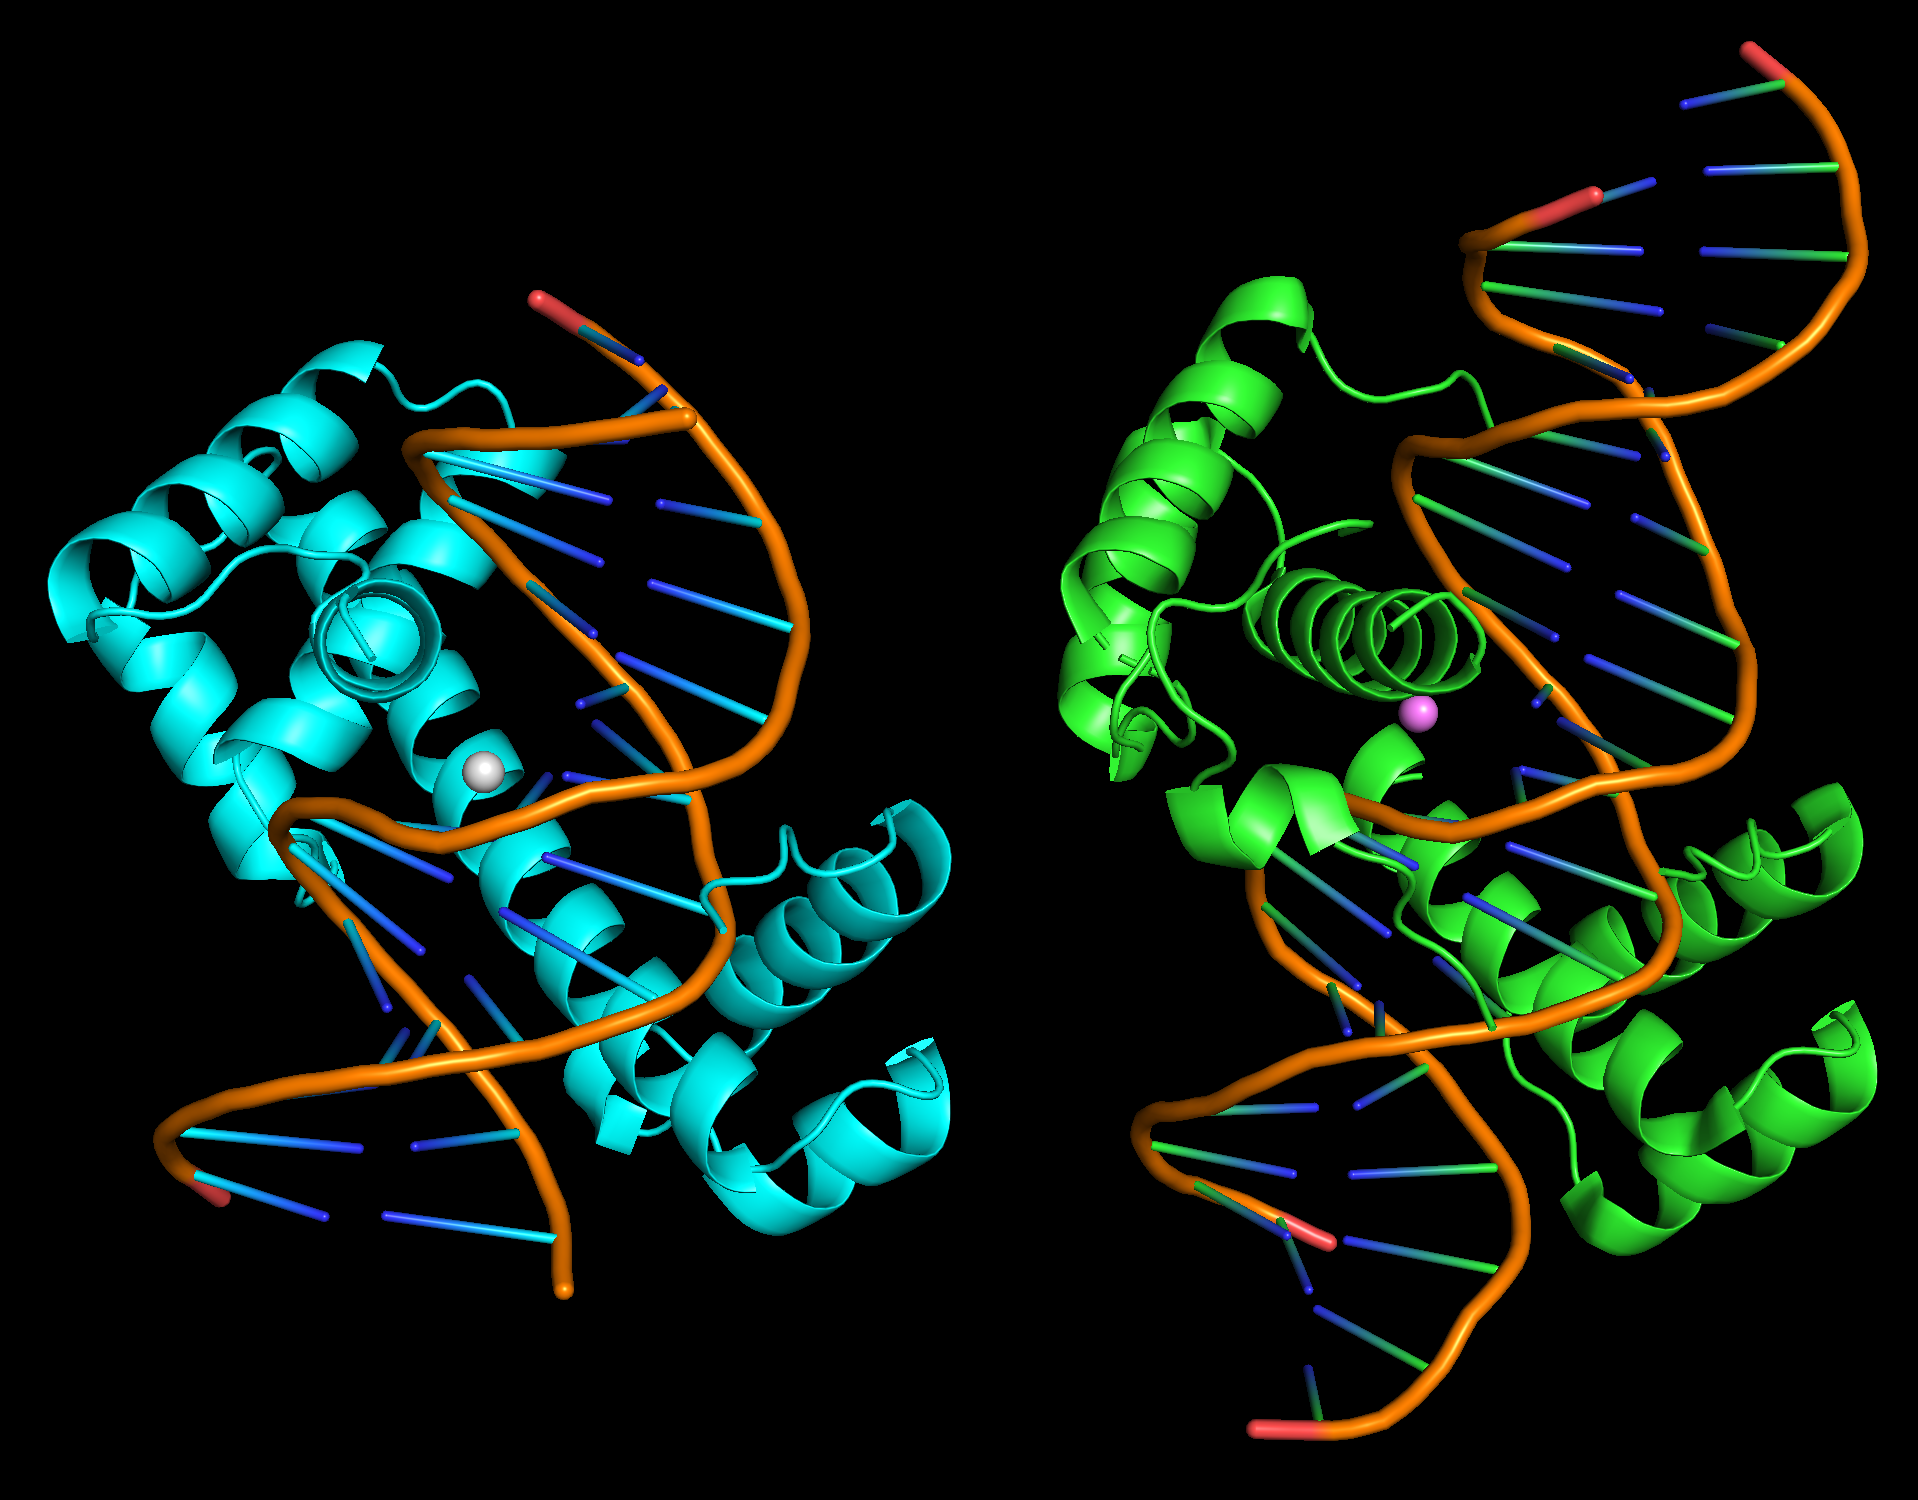
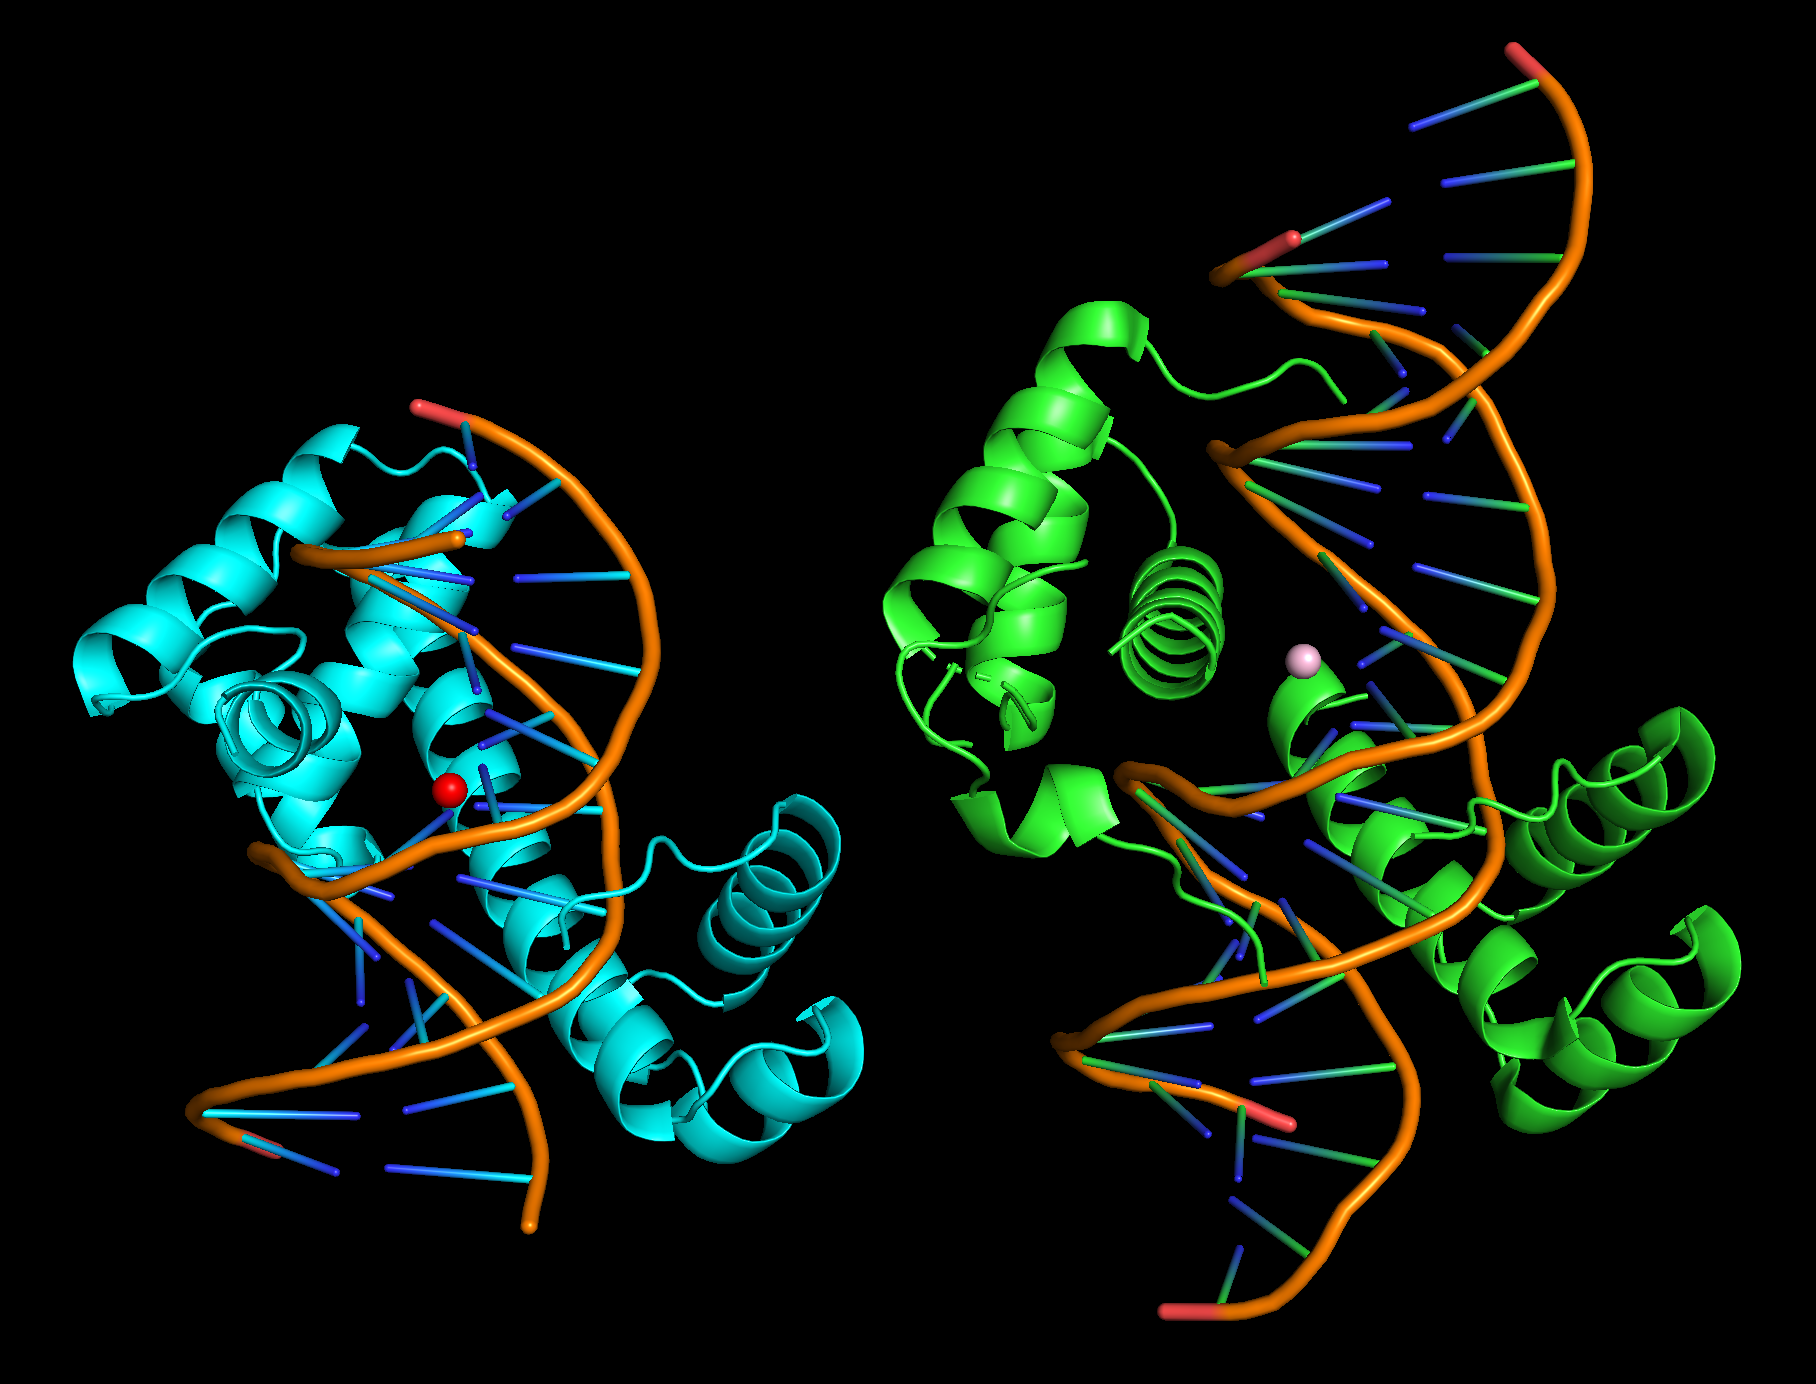
Final draft of NA binder tutorial

Changed region(s): [[0.0, 0.0311, 0.9868, 0.9632]]

diff --git a/models/rfd3/docs/index.rst b/models/rfd3/docs/index.rst
@@ -13,23 +13,24 @@ General
 
    intro_inference_calculations.md
    input.md
+   designability_vs_diversity.md
 
 Tutorials
 ---------
 .. toctree::
    :maxdepth: 1
 
-   ppi_design_tutorial.md
-   enzyme_design_tutorial.md
-   na_binder_tutorial.md
+   tutorials/ppi_design_tutorial.md
+   tutorials/enzyme_design_tutorial.md
+   tutorials/na_binder_tutorial.md
 
 Examples
 --------
 .. toctree::
    :maxdepth: 1 
 
-   na_binder_design.md
-   sm_binder_design.md
-   protein_binder_design.md
-   symmetry.md
-   enzyme_design.md
+   examples/na_binder_design.md
+   examples/sm_binder_design.md
+   examples/protein_binder_design.md
+   examples/symmetry.md
+   examples/enzyme_design.md